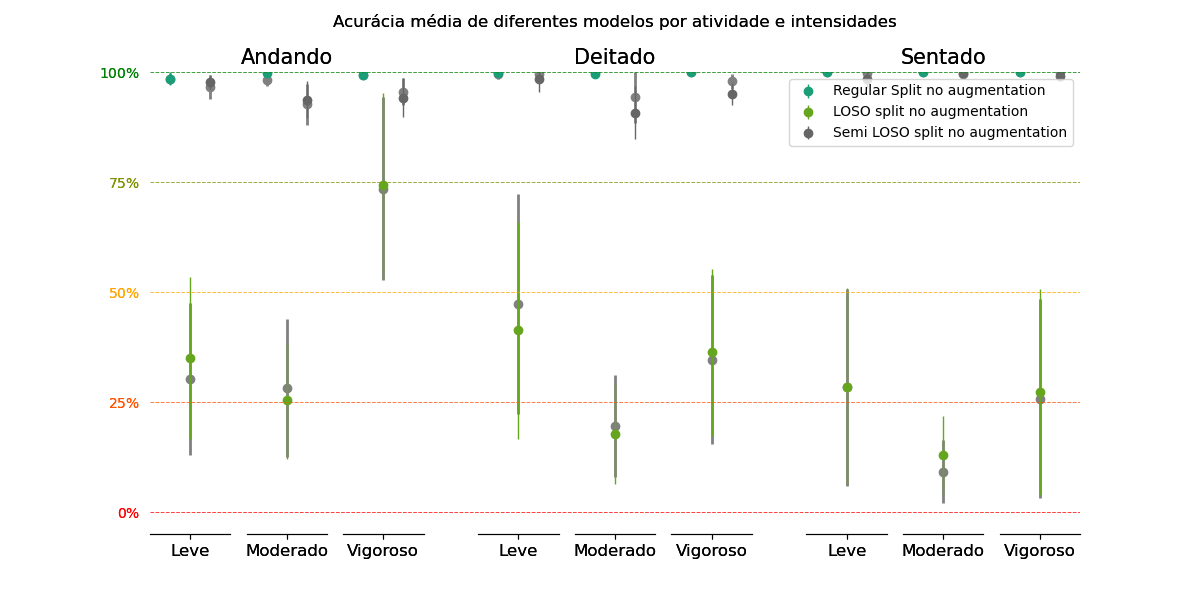
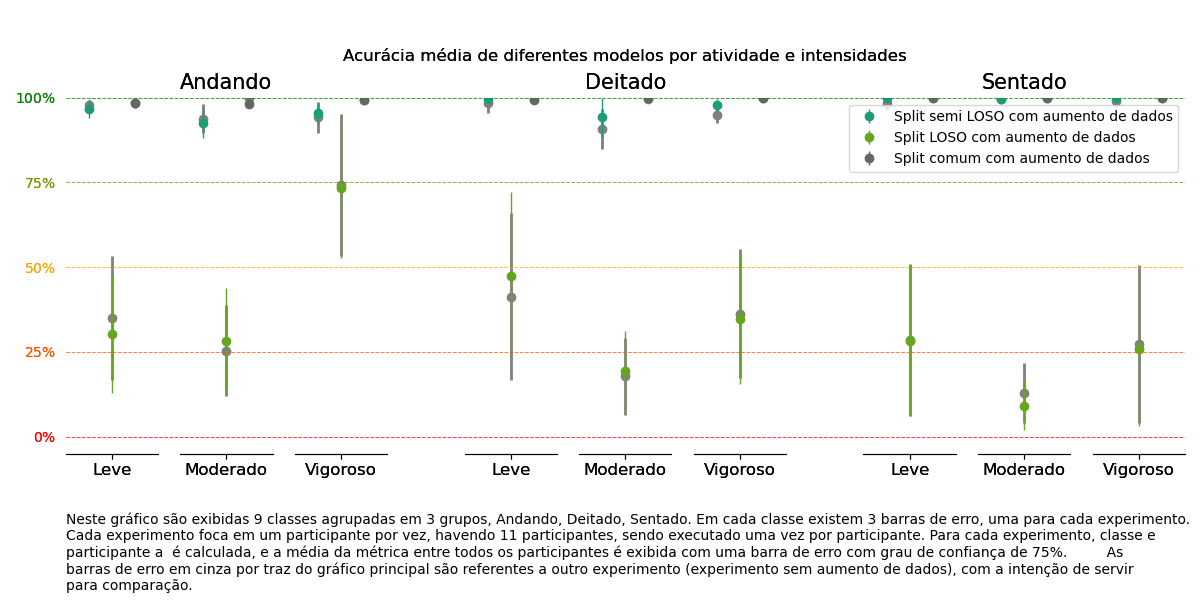
Caption done for both plots

diff --git a/src/arpc_plot.py b/src/arpc_plot.py
@@ -4,6 +4,8 @@ from matplotlib import pyplot as plt
 from matplotlib.colors import LinearSegmentedColormap
 import re
 
+from functools import reduce
+
 from pdb import set_trace
 
 def plot_all(df, save=False, participantes=[]):
@@ -79,7 +81,7 @@ def group_labels_by_first_word(labels):
 def plot_compare_err_bar(arpo, get_data_proc, grouping_scheme_proc,
                          show=True, save_file_name=None, gray=False,
                          eb_width=1, legend=True, fig_gs=None,
-                         no_background=False):
+                         no_background=False, caption=False, metric_used=''):
     """
     GET_DATA_PROC is a procedure receives an Arpc object as parameter and returns a 3-tuple with
     an array of means of some metric for each label, array of superior and inferior limits of error bar,
@@ -98,8 +100,11 @@ def plot_compare_err_bar(arpo, get_data_proc, grouping_scheme_proc,
         ...,
         'FirstWordN': ['RestOfLabel0', ..., 'RestOfLabelM_k']
     }
+    an example procedure is: arpc_plot.group_labels_by_firs_word
+
     FIG_GS is a tuple like (<figure>, <gridspec>)
     RETURN_SUBGRIDS and SUB_GRIDS_PARAMS make it possible to acess the subgrids from other calls of this function
+    METRIC_USED is used to inform the caption
     """
     # Experiments data
     values, err_bars, exp_labels = get_data_proc(arpo)
@@ -192,11 +197,51 @@ def plot_compare_err_bar(arpo, get_data_proc, grouping_scheme_proc,
     ax.spines[['right', 'top', 'left', 'bottom']].set_visible(False)
     ax.patch.set_alpha(0) # transparent background
 
+    if caption:
+        number_of_labels = str(len(labels))
+        number_of_groups = str(len(list(grouped_labels.keys())))
+        group_labels = reduce(lambda x,y: x+', '+y, grouped_labels.keys(), '')
+        number_of_experiments = str(exp_nums)
+        number_of_participants = str(len(arpo.confusion_matrixes))
+
+        text = """
+Neste gráfico são exibidas {} classes agrupadas em {} grupos{}. Em cada classe existem {} barras
+de erro, uma para cada experimento. Cada experimento foca em um participante por vez, havendo {}
+participantes, sendo executado uma vez por participante. Para cada experimento, classe e participante
+a {} é calculada, e a média da métrica entre todos os participantes é exibida com uma barra
+de erro com grau de confiança de 75%.
+        """.format(number_of_labels, number_of_groups, group_labels,
+                   number_of_experiments, number_of_participants, metric_used)
+
+        text = fix_text_for_xlabel_caption(text)
+
+        ax.set_xlabel(text, loc='left')
+        plt.tight_layout()
+
     if show:
         plt.show()
 
     if save_file_name:
         plt.savefig(save_file_name)
+
+def fix_text_for_xlabel_caption(text):
+    for i, c in enumerate(text):
+        if c not in [' ', '\n']:
+            text = text[i:]
+            break
+
+    text = text.replace("\n", ' ')
+    line_size = 150
+    line_count = 0
+    for i, c in enumerate(text):
+        if line_count >= line_size and c == ' ':
+            text = text[:i] + '\n' + text[i+1:] 
+            line_count = 0
+        line_count+=1
+
+    text = "\n\n\n" + text
+
+    return text
 
 def get_compare_side_err_barr_data(arpo, depth, metric_func, get_label_func):
     """
@@ -237,7 +282,8 @@ def get_compare_side_err_barr_data(arpo, depth, metric_func, get_label_func):
     return mean_values, inf_sup_values, exp_names
 
 
-def plot_compare_2_set_of_exps(arpo, depth, metric_func, label_func, file_name=None, show=True):
+def plot_compare_2_set_of_exps(arpo, depth, metric_func, label_func, file_name=None, show=True,
+                               gray_experiment_summary_name=''):
     """
     DEPTH is used to get the second set of experiments,
     ARPO must have 2*DEPTH experiments
@@ -256,7 +302,15 @@ def plot_compare_2_set_of_exps(arpo, depth, metric_func, label_func, file_name=N
     plot_compare_err_bar(arpo_g, this_get_data, group_labels_by_first_word,
                          show=False, gray=True, eb_width=2., legend=False, fig_gs=(fig,gs))
     plot_compare_err_bar(arpo,   this_get_data, group_labels_by_first_word,
-                         show=False, eb_width=1., no_background=True, fig_gs=(fig,gs))
+                         show=False, eb_width=1., no_background=True, fig_gs=(fig,gs), caption=True)
+
+    # Get the last used axis, wich is the axis on wich the caption was written in the xlabel
+    ax = plt.gca()
+    text = ax.get_xlabel()
+    text = text + """As barras de erro em cinza por traz do gráfico principal são referentes a outro experimento ({}),
+com a intenção de servir para comparação.""".format(gray_experiment_summary_name)
+    text = fix_text_for_xlabel_caption(text)
+    ax.set_xlabel(text, loc='left')
 
     if file_name:
         plt.savefig(file_name)

diff --git a/src/experiment_time_warping/plotting_given_arpos.py b/src/experiment_time_warping/plotting_given_arpos.py
@@ -17,6 +17,9 @@ def load_group_of_experiments(file_name):
     with open(file_name, 'rb') as file:
         pickled_data = pickle.load(file)
     #   pickled_data --------------> [(<name0>, [<matrixes0>]), ... , (<nameN>, [<matrixesN>])]
+
+    pickled_data = pickled_data[::-1]
+    
     arpo.name = pickled_data[0][0] #     /\           /\
     arpo.confusion_matrixes = pickled_data[0][1] #     |
     
@@ -41,5 +44,11 @@ else:
 
 ap.plot_compare_2_set_of_exps(test, 3, am.get_label_accuracy_mean,
                               lambda x: x.confusion_matrixes[0][1],
-                              file_name=file_name) 
+                              file_name=file_name, gray_experiment_summary_name="experimento sem aumento de dados")
 
+# def my_get_plot_data(x):
+#     return ap.get_compare_side_err_barr_data(x, 3, am.get_label_accuracy_mean,
+#                                              lambda x: x.confusion_matrixes[0][1])
+
+# ap.plot_compare_err_bar(test, my_get_plot_data, ap.group_labels_by_first_word,
+#                         save_file_name=file_name, show=False, metric_used='acurácia') 
